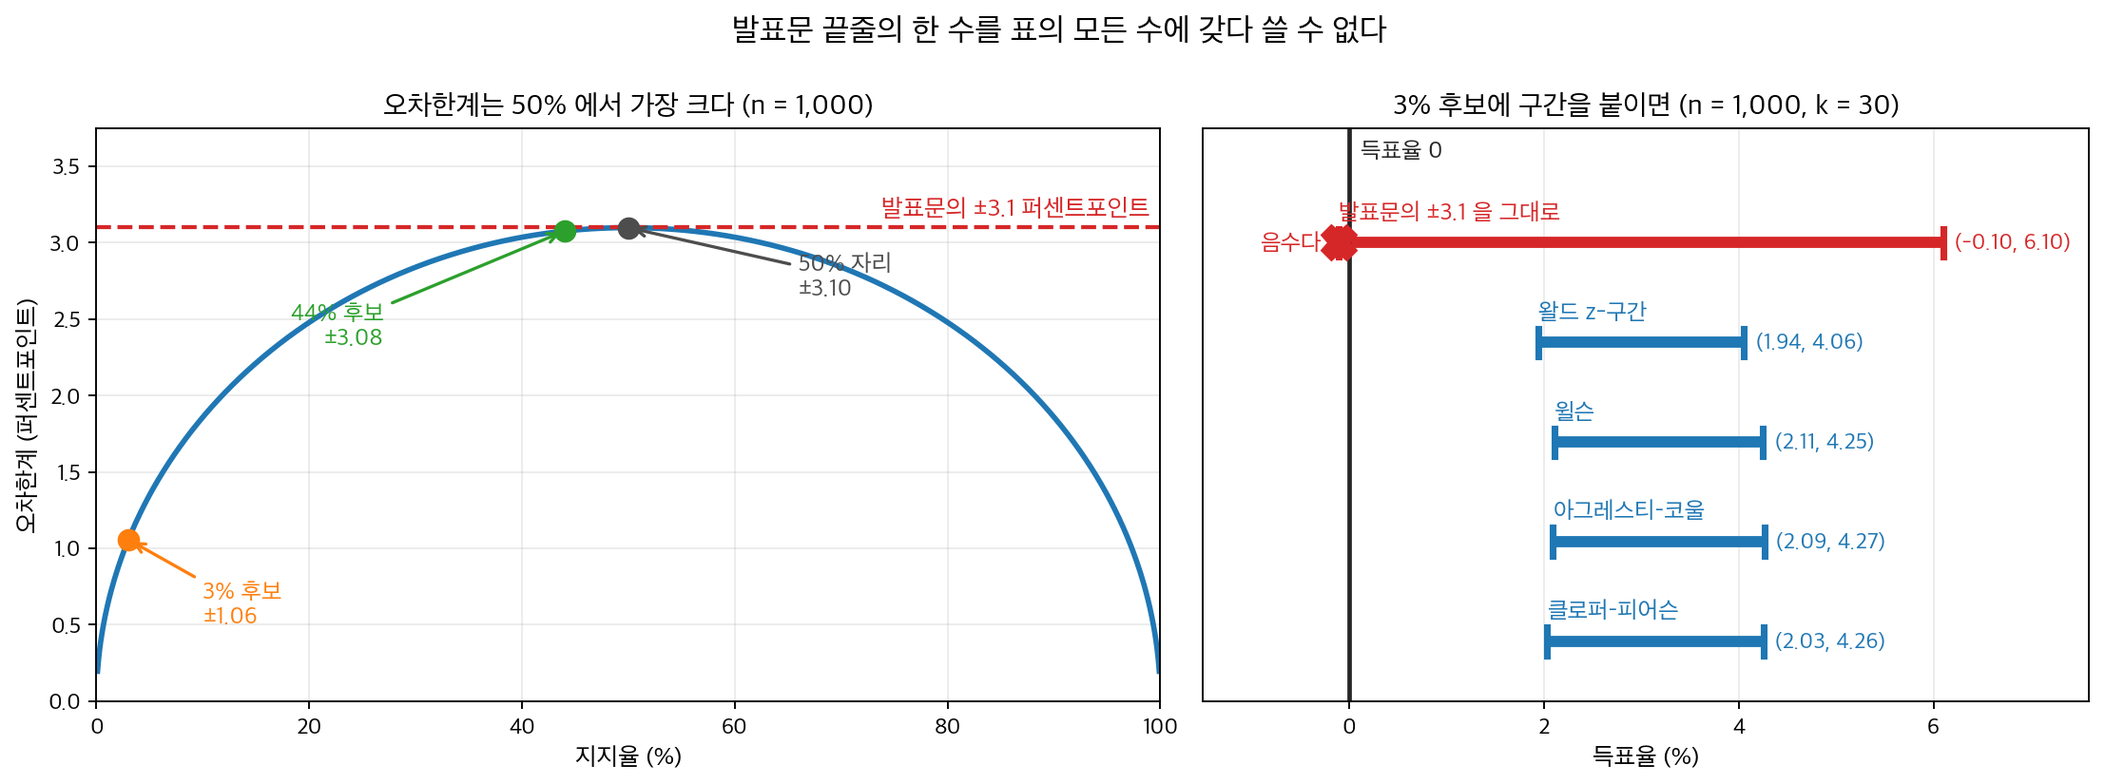
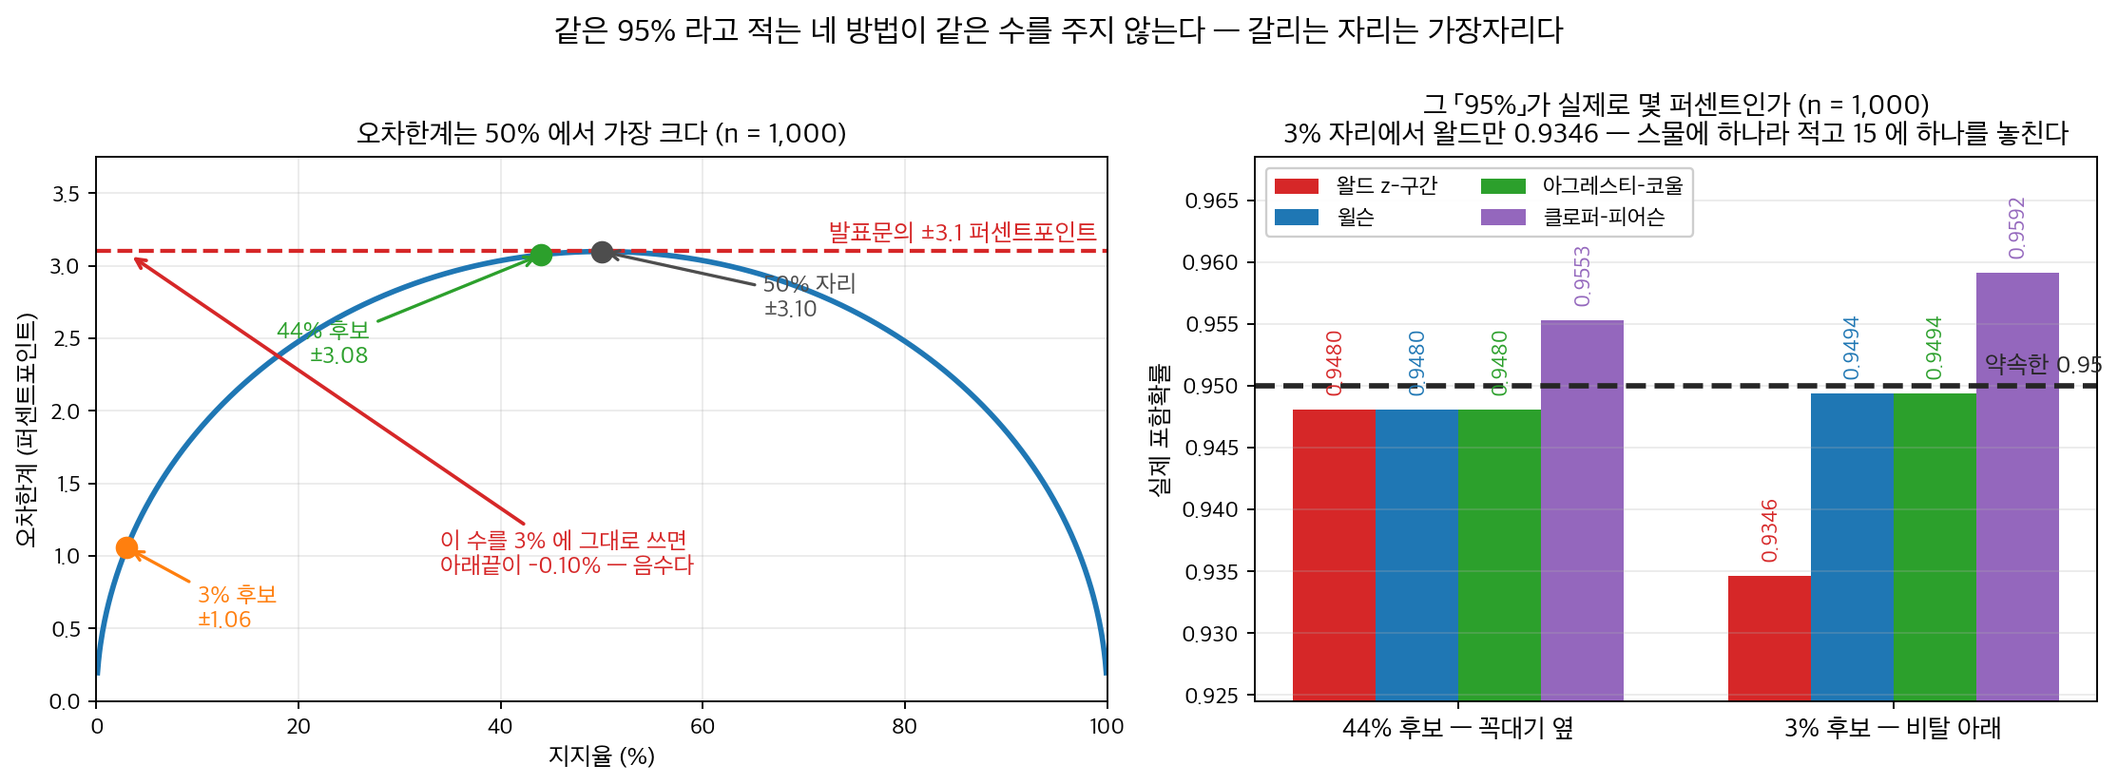
docs(ch08): p의 신뢰구간 들머리의 주장을 앞으로
8.2 μ의 신뢰구간과 같은 꼴이었다. 제목 「음수가 된 득표율」이 기제를
들고 있고 쪽의 주장은 뒤에 묻혀 있었다. 더 나쁜 것은 그 음수가 **네
방법 가운데 어느 것도 내지 않은 수**라는 점이다 — 들머리 스스로
왈드가 (1.94%, 4.06%) 라고 적는다. 발표문의 ±3.1 을 3% 에 잘못
갖다 쓴 결과이고, 그것은 이 쪽이 가르치는 실패가 아니다.

- 제목을 「같은 95% 라고 적는 네 가지 답」으로 바꾸고 첫 문단이
  주장을 세우게 했다. 갤럽 조사는 그 주장이 놓인 자리로 내렸다
- 끝점만 보면 네 구간의 차이가 0.2%p 남짓이라 **「넷이 거의 같다」로
  읽힌다.** 왜 중요한지가 들머리에 없었다. 1,000 명이 낼 수 있는
  결과를 이항분포로 끝까지 세어 실제 포함확률을 재었다

      3% 자리:  왈드 0.9346 · 윌슨 0.9494 · A-C 0.9494 · C-P 0.9592
      44% 자리: 넷이 0.948~0.955 로 고를 일이 없다

  왈드는 스무 번에 한 번 틀리겠다고 적고 열다섯 번에 한 번 틀린다.
  표에 그 열을 더하고 문단으로 풀었다
- 그림 오른쪽 칸을 갈아 끼웠다. 네 구간의 끝점 막대는 들머리의 표가
  이미 숫자로 적어 겹쳤고 「넷이 거의 같다」를 되풀이하고 있었다.
  대신 두 후보 자리에서 네 방법의 실제 포함확률을 맞댄다
- 「방법의 선택에 값이 붙는 것은 비율이 가장자리에 있을 때이고,
  실제로 묻는 비율은 가장자리에 있는 일이 많다」를 넣었다

겹침을 보았다. 4 절의 wald_wilson_coverage 는 왈드·윌슨 **둘**을 p
전체에 걸쳐 그리고, 5 절의 four_methods_tradeoff 는 n = 50, k = 12
에서 최소 포함확률과 평균 너비를 맞바꾼다. 이 조사의 두 후보 자리에서
네 방법을 맞대는 것은 어느 쪽도 하지 않는다.

ch08 검사 전부 0, mkdocs build --strict 통과.

diff --git a/scripts/make_ch08_moe_curve_small_p.py b/scripts/make_ch08_moe_curve_small_p.py
@@ -1,13 +1,23 @@
-"""8.2절 p의 신뢰구간 — 발표문의 +-3.1 은 꼭대기 값이다.
+"""8.2절 p의 신뢰구간 — 같은 95% 가 방법마다 다른 수다.
 
-들머리가 든 조사(전국 1,000 명)를 그대로 쓴다. 발표문 끝줄의 오차한계는
-지지율이 50% 일 때의 값이고, 오차는 바로 거기서 가장 크다. 그래서 그 한
-줄을 표의 모든 수에 갖다 대면 작은 수에서 터무니없이 커지고, 3% 짜리
-후보에서는 아래끝이 0 아래로 넘어간다.
+들머리의 주장은 **방법마다 실제 포함확률이 다르고, 비율이 가장자리로 갈수록
+그 차이가 벌어진다**는 것이다. 들머리가 든 조사(전국 1,000 명)가 44% 와 3%
+를 한 표에 담고 있어 그 두 자리를 그대로 쓴다.
 
-오른쪽은 그 자리에 제대로 된 구간 넷을 세운 것이다. 쪽의 2 절 그림
-four_methods_tradeoff 는 n = 50, k = 12 라는 다른 자료를 쓰므로 겹치지
-않는다.
+왼쪽은 들머리로 들어가는 자리다. 발표문 끝줄의 오차한계는 지지율이 50% 일
+때의 값이고 오차는 바로 거기서 가장 크다. 그래서 그 한 줄을 표의 모든 수에
+갖다 대면 3% 짜리 후보에서 아래끝이 0 아래로 넘어간다 --- 오차를 작게 잡아서가
+아니라 세 배 가까이 크게 잡은 탓이다.
+
+오른쪽이 주장이다. 처음에 여기에 **네 구간의 끝점**을 막대로 그렸는데 그것은
+들머리의 표가 이미 숫자로 적고 있어 겹쳤고, 더 나쁘게는 끝점의 차이가 0.2%p
+남짓이라 **「넷이 거의 같다」로 읽혔다.** 차이가 어디서 드러나는지를 그려야
+한다 --- 이항분포를 끝까지 세어 얻은 **실제 포함확률**이다.
+
+겹침을 보았다. 4 절의 wald_wilson_coverage 는 왈드와 윌슨 **둘**을 참 비율
+p 전체에 걸쳐 그리고, 5 절의 four_methods_tradeoff 는 n = 50, k = 12 에서
+최소 포함확률과 평균 너비의 맞바꿈을 그린다. **이 조사의 두 후보 자리에서
+네 방법을 맞대는 것**은 어느 쪽도 하지 않는다.
 """
 
 import matplotlib.pyplot as plt
@@ -21,6 +31,7 @@ from scipy import stats
 OUT = "docs/ch08/one_sample_intervals/img/"
 
 N = 1000
+K = 30             # 3% 짜리 후보 — 1,000 명 가운데 서른
 ANN = 3.1          # 발표문 끝줄의 오차한계 (퍼센트포인트)
 Z = stats.norm.ppf(0.975)
 
@@ -67,6 +78,11 @@ for p, name, c, (dx, dy), ha in SPOT:
                  xytext=(100 * p + dx, m + dy),
                  ha=ha, fontsize=10.5, color=c, fontweight="bold",
                  arrowprops=dict(arrowstyle="->", color=c, lw=1.4))
+ax1.annotate(f"이 수를 3% 에 그대로 쓰면\n아래끝이 "
+             f"{3 - ANN:.2f}% — 음수다",
+             xy=(3.2, ANN - 0.02), xytext=(34, 0.88), fontsize=10.5,
+             color="tab:red", fontweight="bold", ha="left",
+             arrowprops=dict(arrowstyle="->", color="tab:red", lw=1.6))
 ax1.set_xlim(0, 100)
 ax1.set_ylim(0, 3.75)
 ax1.set_xlabel("지지율 (%)", fontsize=11)
@@ -74,38 +90,65 @@ ax1.set_ylabel("오차한계 (퍼센트포인트)", fontsize=11)
 ax1.set_title(f"오차한계는 50% 에서 가장 크다 (n = {N:,})", fontsize=12.5)
 ax1.grid(alpha=0.25)
 
-# ── (우) 3% 후보에 다섯 구간 ───────────────────────────────────────
-k = 30
-rows = [("발표문의 ±3.1 을 그대로", (0.03 - ANN / 100, 0.03 + ANN / 100))]
-rows += four(k)
-for i, (name, (lo, hi)) in enumerate(rows):
-    y = len(rows) - 1 - i
-    bad = lo < 0
-    col = "tab:red" if bad else "tab:blue"
-    ax2.plot([100 * lo, 100 * hi], [y, y], "-", lw=5.0, color=col,
-             solid_capstyle="butt")
-    for x in (lo, hi):
-        ax2.plot([100 * x, 100 * x], [y - 0.14, y + 0.14], "-", lw=3.0,
-                 color=col)
-    ax2.text(100 * hi + 0.12, y, f"({100*lo:.2f}, {100*hi:.2f})", ha="left",
-             va="center", fontsize=10, color=col)
-    ax2.text(100 * lo, y + 0.20, name, ha="left", va="bottom", fontsize=10.5,
-             color=col, fontweight="bold" if bad else "normal")
-ax2.axvline(0, color="0.15", lw=2.0)
-ax2.text(0.12, len(rows) - 0.15, "득표율 0", fontsize=10.5, color="0.15")
-ax2.plot([100 * rows[0][1][0]], [len(rows) - 1], "X", ms=13, mew=3,
-         color="tab:red", zorder=5)
-ax2.text(100 * rows[0][1][0] - 0.18, len(rows) - 1.0, "음수다", ha="right",
-         va="center", fontsize=10.5, color="tab:red", fontweight="bold")
-ax2.set_xlim(-1.5, 7.6)
-ax2.set_ylim(-0.6, len(rows) + 0.15)
-ax2.set_yticks([])
-ax2.set_xlabel("득표율 (%)", fontsize=11)
-ax2.set_title(f"3% 후보에 구간을 붙이면 (n = {N:,}, k = {k})", fontsize=12.5)
-ax2.grid(axis="x", alpha=0.25)
+# ── (우) 같은 95% 가 실제로는 몇 퍼센트인가 ────────────────────────
+# 이항분포를 끝까지 세므로 모의실험 오차가 없다
+def cover(fn, n, p):
+    ks = np.arange(n + 1)
+    w = stats.binom.pmf(ks, n, p)
+    hit = np.array([1.0 if lo <= p <= hi else 0.0
+                    for lo, hi in (fn(k, n) for k in ks)])
+    return float((w * hit).sum())
 
-fig.suptitle("발표문 끝줄의 한 수를 표의 모든 수에 갖다 쓸 수 없다",
-             fontsize=14, y=1.0)
+
+def by_name(name):
+    return lambda k, n: dict(four_raw(k, n))[name]
+
+
+def four_raw(k, n):
+    """k = 0 과 k = n 까지 받는 판본 — 포함확률을 셀 때 끝을 지나간다."""
+    ph = k / n
+    h = Z * np.sqrt(ph * (1 - ph) / n)
+    d = Z * Z / n
+    c = (ph + d / 2) / (1 + d)
+    hw = (Z / (1 + d)) * np.sqrt(ph * (1 - ph) / n + d / (4 * n))
+    nt = n + Z * Z
+    pt = (k + Z * Z / 2) / nt
+    ht = Z * np.sqrt(pt * (1 - pt) / nt)
+    lo_cp = 0.0 if k == 0 else stats.beta.ppf(0.025, k, n - k + 1)
+    hi_cp = 1.0 if k == n else stats.beta.ppf(0.975, k + 1, n - k)
+    return [("왈드 z-구간", (ph - h, ph + h)),
+            ("윌슨", (c - hw, c + hw)),
+            ("아그레스티–코울", (max(pt - ht, 0.0), pt + ht)),
+            ("클로퍼–피어슨", (lo_cp, hi_cp))]
+
+
+NAMES = [nm for nm, _ in four_raw(K, N)]
+COLS = ["tab:red", "tab:blue", "tab:green", "tab:purple"]
+CANDS = [(0.44, "44% 후보 — 꼭대기 옆"), (0.03, "3% 후보 — 비탈 아래")]
+cov = {p: [cover(by_name(nm), N, p) for nm in NAMES] for p, _ in CANDS}
+
+xx = np.arange(len(CANDS))
+w_ = 0.19
+for j, nm in enumerate(NAMES):
+    vals = [cov[p][j] for p, _ in CANDS]
+    ax2.bar(xx + (j - 1.5) * w_, vals, width=w_, color=COLS[j], label=nm)
+    for i, v in enumerate(vals):
+        ax2.text(xx[i] + (j - 1.5) * w_, v + 0.0012, f"{v:.4f}",
+                 ha="center", va="bottom", fontsize=9.6, color=COLS[j],
+                 fontweight="bold", rotation=90)
+ax2.axhline(0.95, color="0.15", lw=2.4, ls="--")
+ax2.text(len(CANDS) - 0.52, 0.9508, "약속한 0.95", ha="right", va="bottom",
+         fontsize=11, color="0.15", fontweight="bold")
+ax2.set_xticks(xx, [lab for _, lab in CANDS], fontsize=11.5)
+ax2.set_ylabel("실제 포함확률", fontsize=11)
+ax2.set_ylim(0.9245, 0.9685)
+ax2.legend(fontsize=9.8, ncols=2, loc="upper left", framealpha=0.95)
+ax2.grid(axis="y", alpha=0.25)
+ax2.set_title(f"그 「95%」가 실제로 몇 퍼센트인가 (n = {N:,})\n"
+              f"3% 자리에서 왈드만 {cov[0.03][0]:.4f} — 스물에 하나라 "
+              f"적고 {1 / (1 - cov[0.03][0]):.0f} 에 하나를 놓친다",
+              fontsize=12.5)
+fig.suptitle("같은 95% 라고 적는 네 방법이 같은 수를 주지 않는다 — 갈리는 자리는 가장자리다", fontsize=14, y=1.0)
 plt.tight_layout()
 path = OUT + "moe_curve_small_p.png"
 fig.savefig(path, dpi=170, facecolor="white", bbox_inches="tight")
@@ -114,7 +157,13 @@ print("saved", path)
 print(f"\nn = {N}, 95% 오차한계")
 for p in (0.50, 0.44, 0.03):
     print(f"  p = {p:.2f} 에서 ±{moe(p):.4f} 퍼센트포인트")
-print(f"\nk = {k} (3%) 에 다섯 구간")
-for name, (lo, hi) in rows:
-    print(f"  {name:<22s} ({100*lo:7.4f}, {100*hi:7.4f}) %"
-          f"{'   <- 음수' if lo < 0 else ''}")
+print(f"  발표문의 ±{ANN} 을 3% 에 그대로 쓰면 아래끝 {3 - ANN:.2f}% (음수)")
+print(f"\nk = {K} (3%) 에 네 구간")
+for name, (lo, hi) in four(K):
+    print(f"  {name:<22s} ({100*lo:7.4f}, {100*hi:7.4f}) %")
+print(f"\n명목 0.95 의 실제 포함확률 (이항분포를 끝까지 세었다)")
+for pp, lab in CANDS:
+    print(f"  {lab}")
+    for nm, v in zip(NAMES, cov[pp]):
+        print(f"    {nm:<18s} {v:.4f}   (스무 번에 "
+              f"{20 * (1 - v):.2f} 번 놓친다)")

diff --git a/docs/ch08/one_sample_intervals/ci_p.md b/docs/ch08/one_sample_intervals/ci_p.md
@@ -4,33 +4,37 @@
 
 <div class="leadbox" markdown>
 
-**들어가는 이야기** — 음수가 된 득표율
+**들어가는 이야기** — 같은 $95\%$ 라고 적는 네 가지 답
 
-$2022$ 년 $3$ 월 $7$ 일, 대통령 선거를 이틀 앞두고 한국갤럽이 전국 성인 $1{,}000$ 명에게 누구를 찍을지 물었다. 이재명 $43\%$, 윤석열 $44\%$, 심상정 $3\%$ 였고, 발표문 끝에 늘 붙는 한 줄이 함께 적혀 있었다 — 「표본오차 $\pm 3.1$ 퍼센트포인트($95\%$ 신뢰수준)」. 그 한 줄이 뜻하는 것은 이렇다. **같은 방식으로 조사를 수없이 되풀이하면, 그때마다 만든 구간의 $95\%$ 가 참값을 담는다.** 「참값이 이번 구간 안에 있을 확률이 $95\%$」라는 말은 아니다 — 참값은 하나로 정해진 수이고 흔들리는 쪽은 구간이다.
+비율 하나를 구간으로 가두는 방법은 하나가 아니다. 넷이 널리 쓰이고 넷 다 끝에 「$95\%$」라고 적는다. 그런데 그 $95\%$ 가 **실제로 지켜지는지**는 방법마다 다르고, 비율이 $0$ 이나 $1$ 에 가까울수록 그 차이가 벌어진다. 한 여론조사가 그 두 자리를 한 표에 나란히 담고 있다.
 
-$44\%$ 였던 후보에게는 이 한 줄이 잘 맞는다. 그 자리에서 오차한계를 제대로 계산해도 $\pm 3.08$ 이라 적어 둔 $3.1$ 과 거의 같고, 구간은 $40.9\%$ 에서 $47.1\%$ 다.
+$2022$ 년 $3$ 월 $7$ 일, 대통령 선거를 이틀 앞두고 한국갤럽이 전국 성인 $1{,}000$ 명에게 누구를 찍을지 물었다. 이재명 $43\%$, 윤석열 $44\%$, 심상정 $3\%$ 였고 발표문 끝에 한 줄이 붙어 있었다 — 「표본오차 $\pm 3.1$ 퍼센트포인트($95\%$ 신뢰수준)」. 그 줄은 **같은 방식으로 조사를 수없이 되풀이하면 그때마다 만든 구간의 $95\%$ 가 참값을 담는다**는 뜻이다(「참값이 이번 구간 안에 있을 확률」이 아니다 — 자세한 것은 8.1절 [해석과 흔한 오해](../foundations/interpretation.md)에 있다).
 
-문제는 **같은 발표문에 $3\%$ 짜리 후보도 적혀 있다**는 것이다. 그 수에 $\pm 3.1$ 을 그대로 갖다 대면 「$-0.1\%$ 에서 $6.1\%$ 사이」가 된다. **득표율이 음수일 수는 없다.** 까닭은 이렇다. **$\pm 3.1$ 은 지지율이 $50\%$ 일 때의 값이고, 오차는 그 자리에서 가장 크다.** 지지율이 $50$ 에서 멀어질수록 오차는 작아진다. $3\%$ 짜리 후보의 오차한계를 제대로 계산하면 $\pm 1.06$ 으로 $3.1$ 의 삼분의 일 남짓이다. 그러니 $3.1$ 을 갖다 댄 것은 오차를 **너무 작게** 잡은 것이 아니라 **세 배 가까이 크게** 잡은 것이고, 그렇게 크게 잡은 나머지 $0$ 아래로 넘어가 버린 것이다. 발표문의 한 줄은 **가장 나쁜 경우에 맞춰 둔 수**이고, 그래서 표의 모든 수에 그대로 쓸 수 없다.
+그 한 줄은 표의 모든 수에 쓸 수 없다. **$\pm 3.1$ 은 지지율이 $50\%$ 일 때의 값이고 오차는 바로 거기서 가장 크기** 때문이다. $44\%$ 후보는 꼭대기 바로 옆이라 제대로 계산해도 $\pm 3.08$ 로 그 수가 거의 맞는다. $3\%$ 후보는 비탈 아래라 $\pm 1.06$ — 삼분의 일 남짓이다. 그대로 갖다 대면 「$-0.1\%$ 에서 $6.1\%$ 사이」가 되어 **득표율이 음수**가 되는데, 오차를 너무 작게 잡아서가 아니라 **세 배 가까이 크게** 잡은 탓이다.
 
-그러면 $3\%$ 에 맞게 다시 계산하면 될까. 여기서 이 쪽의 일이 시작된다. **다시 계산하는 방법이 하나가 아니다.** 같은 $1{,}000$ 명, 같은 $3\%$, 같은 $95\%$ 인데 네 가지 방법이 네 가지 답을 낸다.
+그러면 $3\%$ 에 맞게 다시 계산하면 되는데, 여기서 이 쪽의 일이 시작된다. **다시 계산하는 방법이 하나가 아니다.** 같은 $1{,}000$ 명, 같은 $3\%$, 같은 $95\%$ 인데 네 가지 답이 나온다.
 
-| 방법 | $95\%$ 구간 |
-|---|---|
-| 왈드 $z$-구간 | $(1.94\%,\ 4.06\%)$ |
-| 윌슨 | $(2.11\%,\ 4.25\%)$ |
-| 아그레스티–코울 | $(2.09\%,\ 4.27\%)$ |
-| 클로퍼–피어슨 | $(2.03\%,\ 4.26\%)$ |
+| 방법 | $95\%$ 구간 | 실제 포함확률 |
+|---|---|---|
+| 왈드 $z$-구간 | $(1.94\%,\ 4.06\%)$ | $0.9346$ |
+| 윌슨 | $(2.11\%,\ 4.25\%)$ | $0.9494$ |
+| 아그레스티–코울 | $(2.09\%,\ 4.27\%)$ | $0.9494$ |
+| 클로퍼–피어슨 | $(2.03\%,\ 4.26\%)$ | $0.9592$ |
 
-첫 줄이 가장 단순한 방법이다. $\hat p$ 에 그 자리의 오차한계를 더하고 빼는 것이라 **왈드 $z$-구간**이라 부르고, $(1.94\%,\ 4.06\%)$ 가 방금 적은 $3 \pm 1.06$ 그대로다. 나머지 셋은 그것을 고친 것들이다. 넷 다 음수를 내지 않는다. 그 점에서는 모두 제구실을 했다. 그런데 갈리는 방향이 한쪽이다 — **왈드만 통째로 아래로 내려가 있다.** 아래끝도 위끝도 넷 가운데 가장 낮다. $44\%$ 였다면 네 구간이 거의 포개졌을 텐데($40.89$–$40.95$ 에서 시작해 $47.08$–$47.14$ 에서 끝난다) $3\%$ 에서는 이렇게 벌어진다.
+첫 줄이 가장 단순하다. $\hat p$ 에 그 자리의 오차한계를 더하고 빼는 것이라 **왈드 $z$-구간**이라 부르고, $(1.94\%,\ 4.06\%)$ 가 방금 적은 $3 \pm 1.06$ 그대로다. 나머지 셋은 그것을 고친 것들이다. 넷 다 음수를 내지 않으니 그 점에서는 모두 제구실을 했고, 끝점의 차이도 $0.2$ 퍼센트포인트 남짓이라 **작아 보인다.**
 
 <figure markdown>
-![왼쪽은 지지율에 따라 오차한계가 변하는 그림으로, 50 퍼센트에서 3.10 으로 가장 크고 양쪽으로 내려가 3 퍼센트 자리에서는 1.06 이다. 오른쪽은 3 퍼센트 후보에 붙인 구간 다섯으로, 발표문의 오차한계를 그대로 쓴 맨 위 구간만 왼쪽 끝이 0 선을 넘어 음수이고 나머지 넷은 모두 0 의 오른쪽에 있다](./img/moe_curve_small_p.png){ width="960" }
-  <figcaption markdown>**왼쪽.** 발표문 끝줄의 수는 곡선의 **꼭대기**에서 읽은 것이다. $44\%$ 후보는 꼭대기 바로 옆이라 $\pm 3.08$ 로 그 수가 거의 맞지만, $3\%$ 후보는 비탈 아래쪽이라 $\pm 1.06$ — **삼분의 일 남짓**이다. **오른쪽.** 그 꼭대기 값을 $3\%$ 에 갖다 댄 맨 위 구간만 $0$ 을 넘어간다. 아래 넷은 모두 $0$ 의 오른쪽에 있고, 그러면서도 서로 어긋난다 — **왈드만 통째로 아래로 내려가 있다.** 다섯 구간의 끝점은 위 표와 같은 값이다.</figcaption>
+![왼쪽은 지지율에 따라 오차한계가 변하는 그림으로, 50 퍼센트에서 3.10 으로 가장 크고 양쪽으로 내려가 3 퍼센트 자리에서는 1.06 이다. 오른쪽은 네 방법의 실제 포함확률을 두 후보 자리에서 막대로 맞댄 그림으로, 44 퍼센트 자리에서는 넷이 비슷한 높이이고 3 퍼센트 자리에서는 왈드만 혼자 0.95 선 아래로 내려가 있다](./img/moe_curve_small_p.png){ width="960" }
+  <figcaption markdown>**왼쪽.** 발표문 끝줄의 수는 곡선의 **꼭대기**에서 읽은 것이다. $44\%$ 후보는 꼭대기 바로 옆이라 $\pm 3.08$ 로 그 수가 거의 맞지만, $3\%$ 후보는 비탈 아래라 $\pm 1.06$ — **삼분의 일 남짓**이다. **오른쪽.** 끝점의 차이가 작아 보여도 **약속이 지켜지는 정도**에서는 그렇지 않다. $1{,}000$ 명이 낼 수 있는 결과를 이항분포로 끝까지 세면(모의실험이 아니다), $44\%$ 자리에서는 넷이 $0.948$ 과 $0.955$ 사이에 모여 고를 일이 없다. $3\%$ 자리에서는 윌슨과 아그레스티–코울이 $0.9494$ 로 약속에 닿고 클로퍼–피어슨이 $0.9592$ 로 넘치는데, **왈드만 $0.9346$ 으로 혼자 내려간다.**</figcaption>
 </figure>
 
-**비율 하나를 가두는 데 왜 방법이 넷이나 필요하고, 무엇을 보고 고르는가.** 이 쪽은 넷을 한 자료에 나란히 세워 그 갈림이 어디서 생기는지 짚는다. 이름만 보고 고르면 안 된다는 것을 아래 상자가 $64$ 년에 걸친 이야기로 따라간다.
+작아 보이는 그 차이가 어디서 드러나는지가 이 쪽의 물음이다. $1{,}000$ 명이 낼 수 있는 결과를 끝까지 세어 **약속한 $95\%$ 가 실제로 몇 퍼센트인지**를 재면, $3\%$ 자리에서 왈드가 $0.9346$ 이다. 스무 번에 한 번 틀리겠다고 적어 놓고 **열다섯 번에 한 번** 틀린다. 같은 자리에서 윌슨과 아그레스티–코울은 $0.9494$ 다. 그리고 $44\%$ 후보 자리에서는 네 방법이 $0.948$ 과 $0.955$ 사이에 모여 **고를 일이 아예 없다.** 갈리는 방향도 한쪽이다 — $3\%$ 에서 왈드만 구간이 통째로 아래로 내려가 있고, 아래끝도 위끝도 넷 가운데 가장 낮다.
 
-_확인한 곳 — 한국갤럽 「제$20$ 대 대통령선거 사후조사」 보고서(갤럽리포트 G$20220311$)의 사전여론조사 추이표 — $2022$ 년 $3$ 월 $7$ 일(D$-2$) 조사 사례수 $1{,}000$ 명에 이재명 $43\%$ · 윤석열 $44\%$ · 심상정 $3\%$, 표본오차 $\pm 3.1$ 퍼센트포인트($95\%$ 신뢰수준), 그리고 같은 표가 적은 $3$ 월 $9$ 일 실제 득표율 이재명 $47.8\%$ · 윤석열 $48.6\%$ · 심상정 $2.4\%$. **그 조사의 $43/44/3$ 은 의견유보 $9\%$ 를 포함한 단순 집계여서 득표율과 바로 견줄 수 있는 수가 아니다** — 이 쪽이 쓰는 것은 「$1{,}000$ 명 가운데 $3\%$」라는 비율 하나뿐이다. 네 구간은 그 수에 각 방법을 적용해 직접 계산한 값이다. 「표본오차 $\pm 3.1$%p」가 $1{,}000$ 명에서 어떻게 나오는지는 8.5절 [표본크기 계산](../sample_size/sample_size.md)이 풀어 두고, 구간을 읽는 법은 8.1절 [해석과 흔한 오해](../foundations/interpretation.md)가 자세히 다룬다_
+**방법의 선택에 값이 붙는 것은 비율이 가장자리에 있을 때다.** 그런데 여론조사의 군소후보, 부작용 발생률, 불량률, 희귀질환 유병률처럼 **실제로 묻는 비율은 가장자리에 있는 일이 많다.**
+
+**그러면 비율 하나를 가두는 데 왜 방법이 넷이나 필요하고, 무엇을 보고 고르는가.** 이 쪽은 넷을 한 자료에 나란히 세워 그 갈림이 어디서 생기는지 짚고, 명목 $95\%$ 와 실제 포함확률이 어긋나는 꼴을 정리 둘로 밝힌다. 이름만 보고 고르면 안 된다는 것을 아래 상자가 $64$ 년에 걸친 이야기로 따라간다.
+
+_확인한 곳 — 한국갤럽 「제$20$ 대 대통령선거 사후조사」 보고서(갤럽리포트 G$20220311$)의 사전여론조사 추이표 — $2022$ 년 $3$ 월 $7$ 일(D$-2$) 조사 사례수 $1{,}000$ 명에 이재명 $43\%$ · 윤석열 $44\%$ · 심상정 $3\%$, 표본오차 $\pm 3.1$ 퍼센트포인트($95\%$ 신뢰수준), 그리고 같은 표가 적은 $3$ 월 $9$ 일 실제 득표율 이재명 $47.8\%$ · 윤석열 $48.6\%$ · 심상정 $2.4\%$. **그 조사의 $43/44/3$ 은 의견유보 $9\%$ 를 포함한 단순 집계여서 득표율과 바로 견줄 수 있는 수가 아니다** — 이 쪽이 쓰는 것은 「$1{,}000$ 명 가운데 $3\%$」라는 비율 하나뿐이다. 네 구간과 그 실제 포함확률은 그 수에 각 방법을 적용해 **이 책이 직접 계산한 값**이고, 포함확률은 이항분포를 끝까지 세어 얻은 것이라 모의실험 오차가 없다. 「표본오차 $\pm 3.1$%p」가 $1{,}000$ 명에서 어떻게 나오는지는 8.5절 [표본크기 계산](../sample_size/sample_size.md)이 풀어 두고, 구간을 읽는 법은 8.1절 [해석과 흔한 오해](../foundations/interpretation.md)가 자세히 다룬다_
 
 </div>
 
